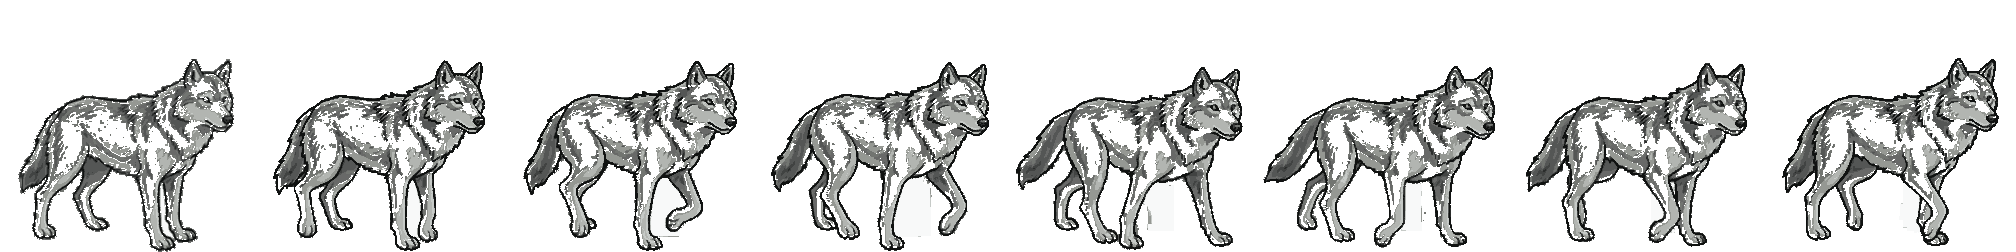
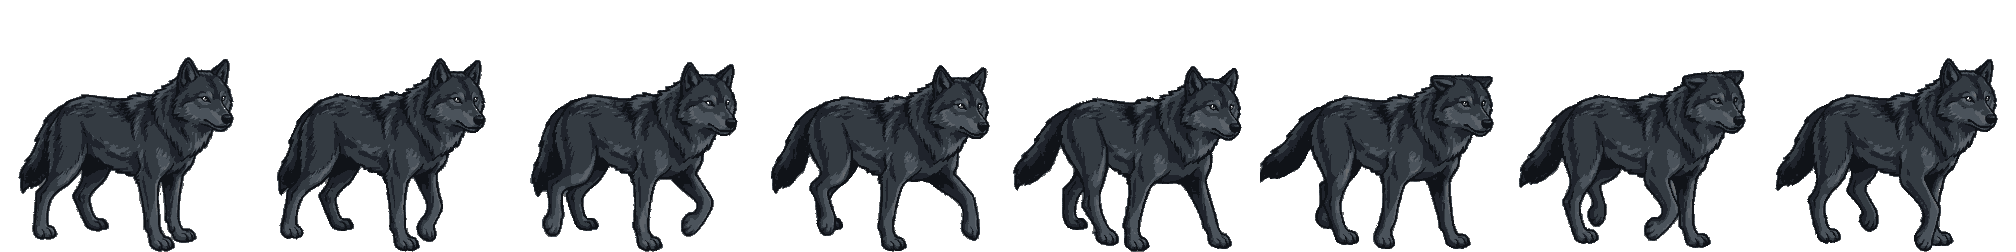
fix: ancres squelettes ch3, difficulté ch3, loup forêt, scales fox/boar
- enemyAnchors 0.85 sur Château/Château Final/Château Boss (squelettes)
- Difficulté chapitre 3 réduite ~20% (Château + Château Final)
- enemy_wolf.png : loup noir détouré 256×256
- enemy_wolf_walk_right.png : spritesheet walk_right SpriteCook
- spriteScales fox 1.2, boar 1.4

diff --git a/public/bremanie/js/tdConfig.js b/public/bremanie/js/tdConfig.js
@@ -172,7 +172,7 @@ export const LEVELS = [
             noCastle: true,
             enemyScale: 1.4,
             enemyScales: { basic: 0.75, fast: 0.8, tank: 1.2, boss: 2.0 },
-            spriteScales: { enemy_fox: 0.7, enemy_boar: 1.0 },
+            spriteScales: { enemy_fox: 1.2, enemy_boar: 1.4 },
             enemyAnchors: { basic: 0.88, fast: 0.88, tank: 0.88, boss: 0.88 },
             tiles: { grass: 'tile_grass', corner: 'tile_corner', straight: 'tile_path_straight' },
             decoTiles: [
@@ -306,7 +306,7 @@ export const LEVELS = [
             noCastle: true,
             enemyScale: 1.4,
             enemyScales: { basic: 0.75, fast: 0.8, tank: 1.2, boss: 2.0 },
-            spriteScales: { enemy_fox: 0.7, enemy_boar: 1.0 },
+            spriteScales: { enemy_fox: 1.2, enemy_boar: 1.4 },
             enemyAnchors: { basic: 0.88, fast: 0.88, tank: 0.88, boss: 0.88 },
             tiles: { grass: 'tile_grass', corner: 'tile_corner', straight: 'tile_path_straight' },
             decoTiles: [
@@ -358,6 +358,7 @@ export const LEVELS = [
             castleScale: 1.8,
             castleAnchorY: 0.75,
             enemyFolder: 'enemies/skeleton',
+            enemyAnchors: { basic: 0.85, fast: 0.85, tank: 0.85, boss: 0.85 },
             enemies: {
                 basic:   ['enemy_basic_1','enemy_basic_2','enemy_basic_3',
                           'enemy_basic_4','enemy_basic_5','enemy_basic_6','enemy_basic_7'],
@@ -389,15 +390,15 @@ export const LEVELS = [
         ],
         waves: [
             // Vague 1 : éclaireurs squelettes
-            [{ type: 'basic', count: 8 }],
+            [{ type: 'basic', count: 6 }],
             // Vague 2 : squelettes + archers rapides
-            [{ type: 'basic', count: 12 }, { type: 'fast', count: 6 }],
+            [{ type: 'basic', count: 10 }, { type: 'fast', count: 5 }],
             // Vague 3 : gardes armés (tank) entrent en jeu
-            [{ type: 'basic', count: 14 }, { type: 'fast', count: 8 }, { type: 'tank', count: 3 }],
+            [{ type: 'basic', count: 11 }, { type: 'fast', count: 6 }, { type: 'tank', count: 2 }],
             // Vague 4 : assaut massif
-            [{ type: 'basic', count: 16 }, { type: 'fast', count: 12 }, { type: 'tank', count: 5 }],
+            [{ type: 'basic', count: 13 }, { type: 'fast', count: 9 }, { type: 'tank', count: 4 }],
             // Vague 5 : boss squelette + gardes lourds
-            [{ type: 'boss', count: 1 }, { type: 'tank', count: 6 }, { type: 'basic', count: 10 }, { type: 'fast', count: 8 }],
+            [{ type: 'boss', count: 1 }, { type: 'tank', count: 5 }, { type: 'basic', count: 8 }, { type: 'fast', count: 6 }],
         ]
     },
     // ── Chapitre III : Château Final (après dialogue post_tornado) ──
@@ -407,6 +408,7 @@ export const LEVELS = [
             id: 'castle',
             bgColor: 0x000000,
             enemyFolder: 'enemies/skeleton',
+            enemyAnchors: { basic: 0.85, fast: 0.85, tank: 0.85, boss: 0.85 },
             enemies: {
                 basic:   ['enemy_basic_1','enemy_basic_2','enemy_basic_3',
                           'enemy_basic_4','enemy_basic_5','enemy_basic_6','enemy_basic_7'],
@@ -433,12 +435,12 @@ export const LEVELS = [
             {x:0,y:19}, {x:1,y:20}, {x:1,y:21},
         ],
         waves: [
+            [{ type: 'tornado', count: 1 }, { type: 'basic', count: 5 }, { type: 'fast', count: 2 }, { type: 'tank', count: 1 }],
             [{ type: 'tornado', count: 1 }, { type: 'basic', count: 6 }, { type: 'fast', count: 3 }, { type: 'tank', count: 1 }],
             [{ type: 'tornado', count: 1 }, { type: 'basic', count: 8 }, { type: 'fast', count: 4 }, { type: 'tank', count: 2 }],
-            [{ type: 'tornado', count: 1 }, { type: 'basic', count: 10 }, { type: 'fast', count: 5 }, { type: 'tank', count: 2 }],
-            [{ type: 'tornado', count: 1, position: 'start' }, { type: 'basic', count: 12 }, { type: 'fast', count: 6 }, { type: 'tank', count: 3 }, { type: 'tornado', count: 1 }],
-            [{ type: 'tornado', count: 2, position: 'start' }, { type: 'basic', count: 15 }, { type: 'fast', count: 8 }, { type: 'tank', count: 4 }, { type: 'tornado', count: 1 }],
-            [{ type: 'tornado', count: 1, position: 'start' }, { type: 'basic', count: 20 }, { type: 'fast', count: 12 }, { type: 'tank', count: 6 }, { type: 'tornado_boss', count: 1 }],
+            [{ type: 'tornado', count: 1, position: 'start' }, { type: 'basic', count: 10 }, { type: 'fast', count: 5 }, { type: 'tank', count: 2 }, { type: 'tornado', count: 1 }],
+            [{ type: 'tornado', count: 2, position: 'start' }, { type: 'basic', count: 12 }, { type: 'fast', count: 6 }, { type: 'tank', count: 3 }, { type: 'tornado', count: 1 }],
+            [{ type: 'tornado', count: 1, position: 'start' }, { type: 'basic', count: 15 }, { type: 'fast', count: 9 }, { type: 'tank', count: 4 }, { type: 'tornado_boss', count: 1 }],
         ]
     },
     // ── Chapitre III : Château Boss (1 tornado, même carte que Château) ──
@@ -448,6 +450,7 @@ export const LEVELS = [
             id: 'castle',  // partage les assets du niveau Château
             bgColor: 0x000000,
             enemyFolder: 'enemies/skeleton',
+            enemyAnchors: { basic: 0.85, fast: 0.85, tank: 0.85, boss: 0.85 },
             enemies: {
                 basic:   ['enemy_basic_1','enemy_basic_2','enemy_basic_3',
                           'enemy_basic_4','enemy_basic_5','enemy_basic_6','enemy_basic_7'],
